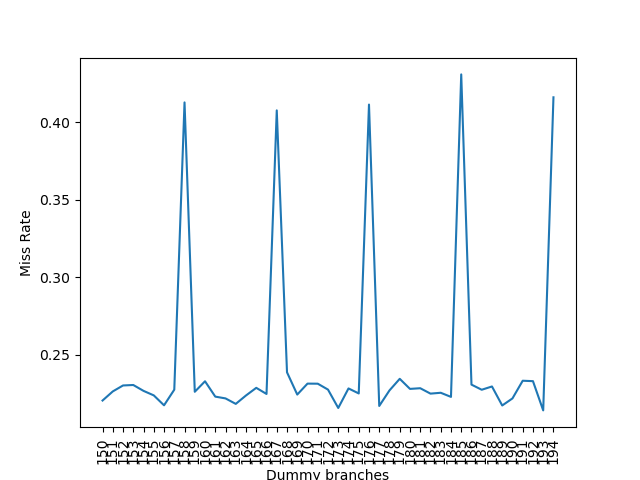
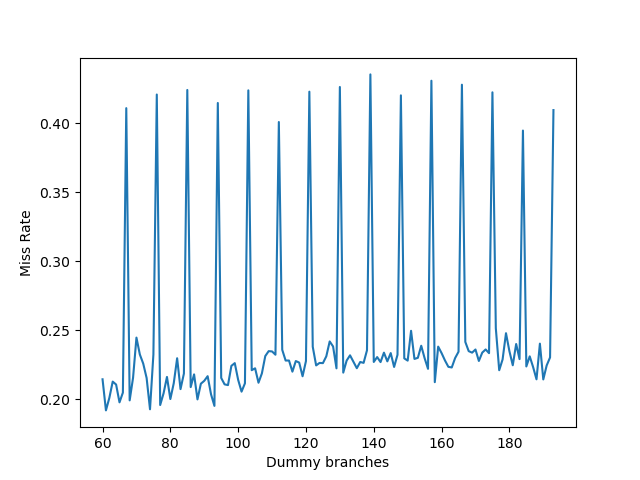
Use better index hash collision image

diff --git a/docs/hardware/cpu_microarchitecture.md b/docs/hardware/cpu_microarchitecture.md
@@ -578,7 +578,7 @@ void bhb_update(uint58_t *bhb_state, unsigned long src, unsigned long dst) {
 
 ![](cpu_microarchitecture_phr_index_hash_alder_lake.png)
 
-这里测试的和论文中稍有不同：这里横坐标是移位 PHR 的分支的个数，而不是 k 的位置，但也可以通过分支个数计算出 k 的位置。从图里可以看到峰值的横座标呈一个等差数列：158，167，176，185，194。公差为 9，对应 18 个 bit。这个结果和 Indirector 的 IBP 的 Index Hash 是一致的，虽然一个是 CBP，一个是 IBP。
+这里测试的和论文中稍有不同：这里横坐标是移位 PHR 的分支的个数，而不是 k 的位置，但也可以通过分支个数计算出 k 的位置。从图里可以看到峰值的横座标呈一个等差数列：67, 76, ... 193。公差为 9，对应 18 个 bit。这个结果和 Indirector 的 IBP 的 Index Hash 是一致的，虽然一个是 CBP，一个是 IBP。
 
 
 ### 参考文献
